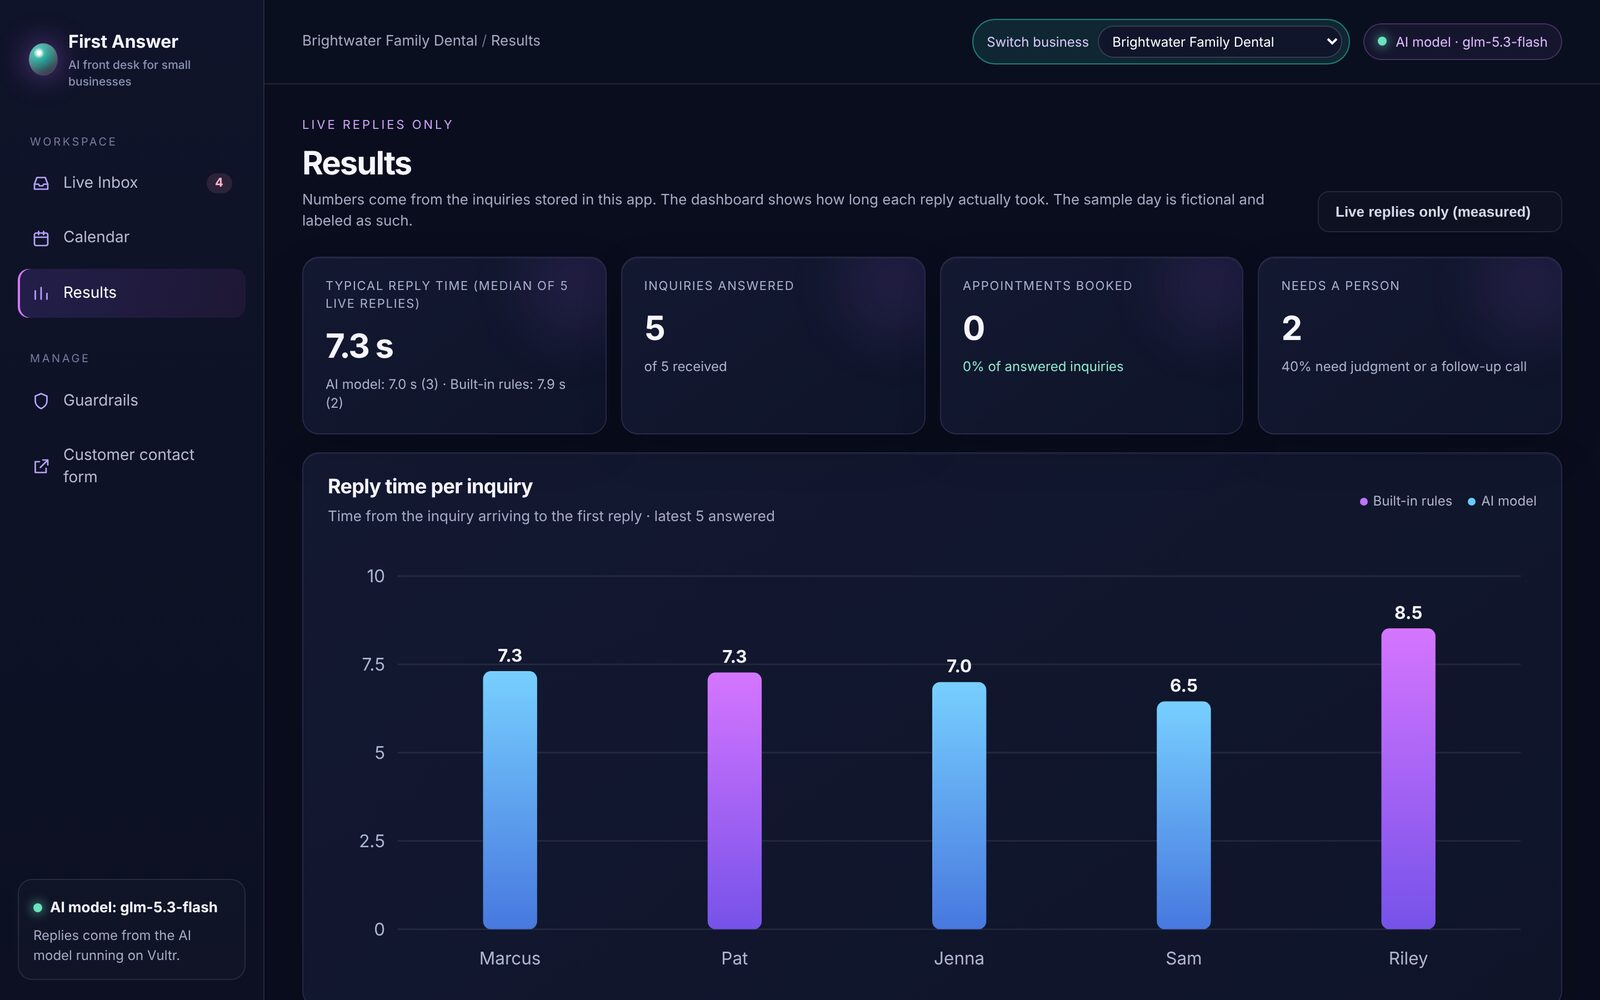
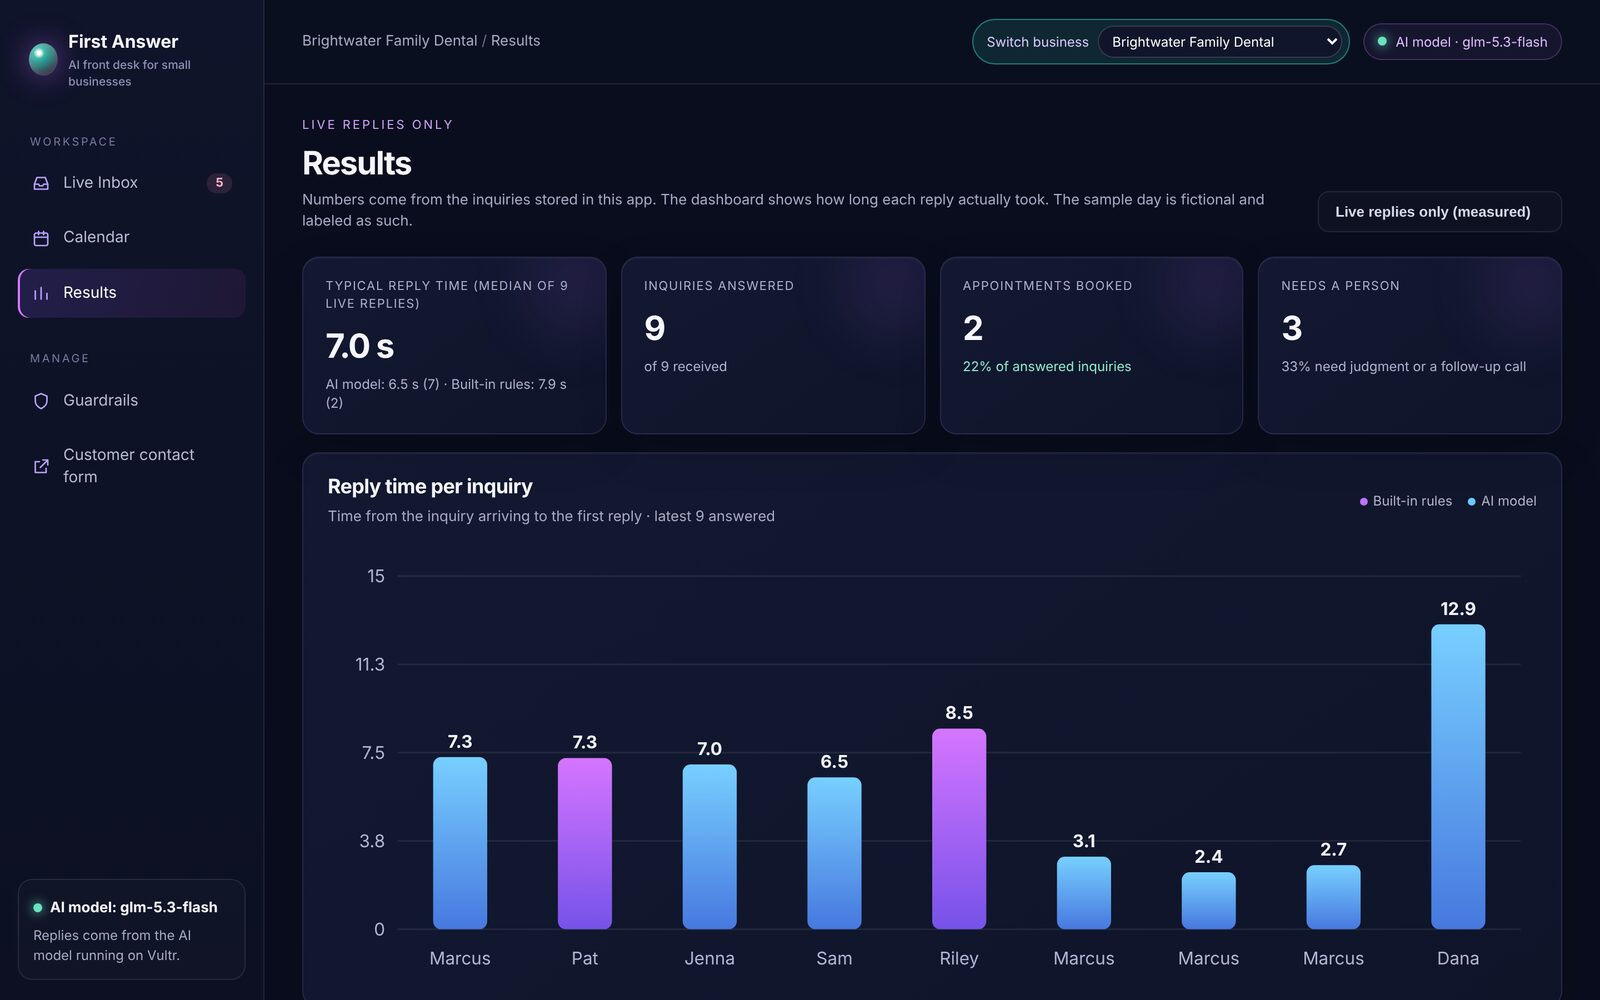
Use a frozen dated results snapshot; remove instant-reply claims; plainer wording
Claude-Session: https://claude.ai/code/session_01HUSseLV9L3fPVtWv31s9pU

diff --git a/public/app.js b/public/app.js
@@ -33,8 +33,8 @@ const fmtDay = (iso) => { const [y, m, d] = iso.split('-').map(Number); return n
 const tzName = (tz) => { try { return new Intl.DateTimeFormat('en-US', { timeZone: tz, timeZoneName: 'longGeneric' }).formatToParts(new Date()).find((p) => p.type === 'timeZoneName')?.value || tz; } catch { return tz; } };
 const fmtSlot = (id) => { const [d, t] = id.split('T'); const [y, m, dd] = d.split('-').map(Number); const day = new Intl.DateTimeFormat('en-US', { timeZone: 'UTC', weekday: 'short', month: 'short', day: 'numeric' }).format(new Date(Date.UTC(y, m - 1, dd))); const h = Number(t.slice(0, 2)); return `${day}, ${h % 12 || 12}:${t.slice(3, 5)} ${h >= 12 ? 'PM' : 'AM'}`; };
 const secs = (n) => (n == null ? '—' : n < 1 ? `${Math.round(n * 1000)} ms` : `${n.toFixed(1)} s`);
-// A reply from the built-in rules that took under a second reads "instant (rules)"; a model reply keeps its real time.
-const replyText = (sec, mode) => (sec == null ? 'Waiting' : sec < 1 && mode !== 'model' ? 'instant (rules)' : secs(sec));
+// Every reply shows its real measured time.
+const replyText = (sec, mode) => (sec == null ? 'Waiting' : secs(sec));
 const upper1 = (t) => String(t || '').charAt(0).toUpperCase() + String(t || '').slice(1);
 const dayKey = (ts) => new Intl.DateTimeFormat('en-CA', { timeZone: state.tz }).format(new Date(ts));
 // Time of day for today, and the date plus time for anything older (a 3-day-old item must not look like it is from today).
@@ -252,7 +252,7 @@ function timelineItem(t) {
 function factsHtml(l, speedup) {
   const q = l.qualification; const rows = [];
   const add = (k, v) => rows.push(html`<dt>${k}</dt><dd>${v}</dd>`);
-  add('First reply', l.replyTimeSec == null ? 'Not yet' : l.seed ? `${replyText(l.replyTimeSec, l.lastRunMode)} (simulated)` : l.replyTimeSec < 1 && l.lastRunMode !== 'model' ? 'instant (rules)' : `${secs(l.replyTimeSec)} (measured)`);
+  add('First reply', l.replyTimeSec == null ? 'Not yet' : l.seed ? `${replyText(l.replyTimeSec, l.lastRunMode)} (simulated)` : `${secs(l.replyTimeSec)} (measured)`);
   add('Answered by', l.lastRunMode === 'model' ? 'AI model' : l.lastRunMode === 'offline' ? 'Built-in rules' : 'Pending');
   if (q) {
     add('Service', q.serviceLabel);
@@ -330,7 +330,7 @@ async function renderResults(scope = 'live') {
     <div class="heading"><div><div class="eyebrow">${withSample ? 'Live replies plus the fictional sample day' : 'Live replies only'}</div><h1>Results</h1><p class="sub">Numbers come from the inquiries stored in this app. The dashboard shows how long each reply actually took. The sample day is fictional and labeled as such.</p></div>
       <select class="btn ghost" id="scope" aria-label="Data scope"><option value="live">Live replies only (measured)</option><option value="all">Include simulated sample data</option></select></div>
     <div class="stat-grid">
-      <div class="card stat"><label>Typical reply time${ms.answered ? ` (median of ${ms.answered} live repl${ms.answered === 1 ? 'y' : 'ies'})` : ''}</label><strong>${ms.medianSec == null ? '—' : replyText(ms.medianSec, ms.model.answered && !ms.rules.answered ? 'model' : 'rules')}</strong><small class="dim">${ms.answered ? `AI model: ${ms.model.answered ? secs(ms.model.medianSec) + ' (' + ms.model.answered + ')' : 'none yet'} · Built-in rules: ${ms.rules.answered ? (ms.rules.medianSec < 1 ? 'instant' : secs(ms.rules.medianSec)) + ' (' + ms.rules.answered + ')' : 'none yet'}` : 'No live replies yet'}</small></div>
+      <div class="card stat"><label>Typical reply time${ms.answered ? ` (median of ${ms.answered} live repl${ms.answered === 1 ? 'y' : 'ies'})` : ''}</label><strong>${ms.medianSec == null ? '—' : replyText(ms.medianSec, ms.model.answered && !ms.rules.answered ? 'model' : 'rules')}</strong><small class="dim">${ms.answered ? `AI model: ${ms.model.answered ? secs(ms.model.medianSec) + ' (' + ms.model.answered + ')' : 'none yet'} · Built-in rules: ${ms.rules.answered ? secs(ms.rules.medianSec) + ' (' + ms.rules.answered + ')' : 'none yet'}` : 'No live replies yet'}</small></div>
       <div class="card stat"><label>Inquiries answered</label><strong>${m.answered}</strong><small class="dim">of ${m.totalLeads} received${withSample ? ' (includes the fictional sample)' : ''}</small></div>
       <div class="card stat"><label>Appointments booked</label><strong>${m.booked}</strong><small>${m.bookedRate == null ? 'No data yet' : m.bookedRate + '% of answered inquiries' + (withSample ? ' (sample is fictional)' : '')}</small></div>
       <div class="card stat"><label>Needs a person</label><strong>${m.human}</strong><small class="dim">${m.humanRate == null ? 'No data yet' : m.humanRate + '% need judgment or a follow-up call'}</small></div>

diff --git a/src/agent.js b/src/agent.js
@@ -268,7 +268,7 @@ export class Agent {
     lead.lastRunAt = this.now();
     lead.runCount = (lead.runCount || 0) + 1;
     step({
-      kind: 'done', title: lead.firstReplyAt && !lead.replyDoneLogged ? `Done. ${lead.replyTimeSec < 1 && runInfo.mode !== MODE_MODEL ? 'Reply sent instantly (built-in rules)' : `First reply in ${lead.replyTimeSec < 1 ? Math.round(lead.replyTimeSec * 1000) + ' ms' : lead.replyTimeSec + ' s'}`}` : 'Done',
+      kind: 'done', title: lead.firstReplyAt && !lead.replyDoneLogged ? `Done. First reply in ${lead.replyTimeSec < 1 ? 'under 1 s' : lead.replyTimeSec + ' s'}` : 'Done',
       detail: `Status: ${lead.status}`,
     });
     lead.replyDoneLogged = true;

diff --git a/README.md b/README.md
@@ -28,7 +28,7 @@ Demo data is fictional and no text or email is ever sent. Please use made-up det
 | Customers and sample inquiries | **Simulated** (fictional names, 555 numbers) |
 | The calendar being a business's actual calendar | **Simulated.** It is the app's own calendar; there is no Google or Outlook sync yet. |
 
-If no AI key is set, or the AI model cannot be reached or is over its hourly limit, the app switches to **backup mode**: built-in rules that follow the same steps and use the same safety checks. The header badge and `/api/health` say which mode is active. The badge shows a model name only while the AI model is really answering, and `/api/health` reports `modelVerified: true` only after a real test call to the model succeeded.
+If the AI model is not connected, cannot be reached or has reached its hourly limit, the app switches to **backup mode**: built-in rules that follow the same steps and use the same safety checks. The header badge and `/api/health` say which mode is active. The badge shows a model name only while the AI model is really answering, and `/api/health` reports `modelVerified: true` only after a real test call to the model succeeded.
 
 ## Why it matters
 
@@ -64,7 +64,7 @@ Taken on the live deployment (<https://155-138-206-164.sslip.io>) with the real 
 
 ![Calendar for the dental office](docs/screenshots/03-dental-calendar.jpg)
 
-**4. Results.** Median reply time of live replies with the AI model and built-in rules shown separately, plus a reply time bar per inquiry. Numbers are discussed under "Measured on the live deployment".
+**4. Results.** Median reply time of live replies with the AI model and built-in rules shown separately, plus a reply time bar per inquiry. Numbers are from a frozen snapshot, discussed under "Measured on the live deployment".
 
 ![Results screen](docs/screenshots/04-dental-results.jpg)
 
@@ -98,11 +98,12 @@ Taken on the live deployment (<https://155-138-206-164.sslip.io>) with the real 
 
 ## Measured on the live deployment
 
-From the Results screen on the live app (dental office, live replies only, sample day excluded; screenshot 4):
+Frozen snapshot from the Results screen of the live app: **Nov 4, 2026, about 10:25 AM Central**, dental office, live replies only, sample data excluded (screenshot 4).
 
-* **Typical reply time (median): 7.3 s over 5 live replies.** Split as shown: AI model 7.0 s (3 replies), built-in rules 7.9 s (2 replies).
-* 5 inquiries answered of 5 received; 0 appointments booked in that run; 2 of 5 needed a person (one prompt-injection test message and one angry-customer message).
-* This is a small sample from one session, not a benchmark. Reply time is measured from the inquiry arriving to the first reply.
+* **Typical reply time (median): 7.0 s over 9 live replies.**
+* AI model: 6.5 s (7 replies). Built-in rules: 7.9 s (2 replies); these include the time spent asking the model first, so backup mode is not instant.
+* 9 of 9 inquiries answered; 2 booked (22%); 3 needed a person (33%).
+* This is a small sample. The live dashboard keeps changing as visitors try it, so the numbers you see there will differ. Reply time is measured from the inquiry arriving to the first reply.
 
 What the agent did on the live model for a price question (screenshot 2): the customer asked how much a cleaning and checkup costs for an adult who pays out of pocket. The AI model called `qualify_lead`, then `check_calendar` (4 open windows found), and wrote a reply that quoted the approved range ($110-$190 for a cleaning and checkup) and offered real open times from the calendar (Wed Nov 4 at 2:00 PM, Thu Nov 5 at 9:00, 10:00 or 11:00 AM). The reply was a simulated send.
 
@@ -154,7 +155,7 @@ flowchart LR
 * **Vultr Cloud Compute VM** (`vc2-1c-2gb`, Atlanta, Ubuntu 24.04) is the control layer. It runs the Express API, the dashboard, the calendar and booking store, the follow-up timers, the safety checks and the assistant loop. It is set up by one startup script ([`deploy/cloud-init.sh`](deploy/cloud-init.sh)).
 * **Vultr Serverless Inference** (OpenAI-compatible, `https://api.vultrinference.com/v1`) is the assistant's reasoning engine. The app sends chat requests with action definitions and runs the actions the model returns. Default model: `glm-5.3-flash` (change it with `VULTR_INFERENCE_MODEL`).
 
-Serverless Inference is optional for this challenge, but it is the primary path. The VM works on its own: with no key the same app runs in backup mode.
+Serverless Inference is optional for this challenge, but it is the primary path. The VM works on its own: with no AI key the same app runs in backup mode.
 
 ## The assistant: how it executes real tasks
 
@@ -173,7 +174,7 @@ Reliability and cost control: runs for the same inquiry never overlap, a cap on 
 
 ### Backup mode
 
-If `VULTR_INFERENCE_KEY` is not set, the hourly or per-visitor limit is reached, or a model call fails, built-in rules follow the **same steps** and call the **same checked functions**. The run is labeled "Backup mode: built-in rules" in the step list, the header badge and `/api/health`. Reply time is measured from the inquiry arriving to the first reply, so rule-based replies are near-instant and AI model replies include the model's response time.
+If `VULTR_INFERENCE_KEY` is not set, the hourly or per-visitor limit is reached, or a model call fails, built-in rules follow the **same steps** and call the **same checked functions**. The run is labeled "Backup mode: built-in rules" in the step list, the header badge and `/api/health`. Reply time is measured from the inquiry arriving to the first reply, so every reply includes any time spent asking the AI model first. A reply written by the built-in rules after a model attempt is therefore not instant; the dashboard shows the real time for each reply.
 
 ### Guardrails (checked in code, not only in the prompt)
 
